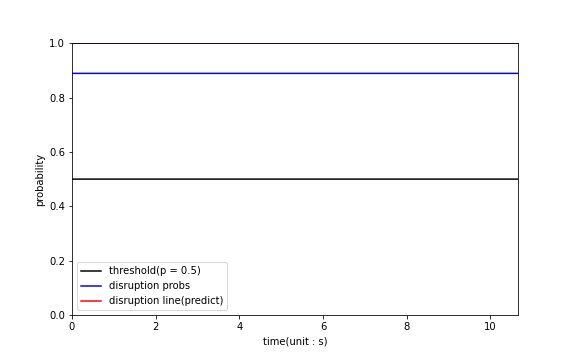
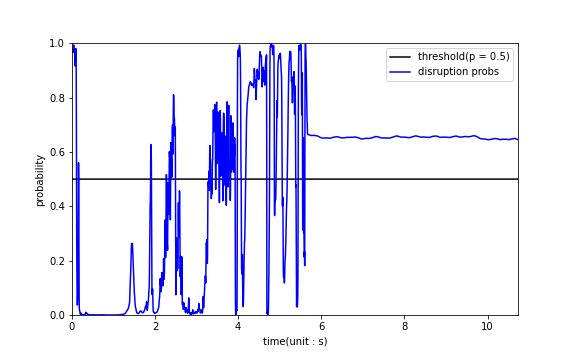
edit utility.py and test.ipynb : plot the probs curve

diff --git a/src/utils/utility.py b/src/utils/utility.py
@@ -129,7 +129,7 @@ def time_split(buffer:np.ndarray, clip_len : int):
     c = buffer.shape[3]
 
     batch_size = frame_count - clip_len + 1
-    dataset = np.zeros((batch_size, clip_len, h, w, c), dtype = np.float32)
+    dataset = np.empty((batch_size, clip_len, h, w, c), dtype = np.float32)
 
     for idx in range(0, batch_size):
         t_start = idx
@@ -161,11 +161,6 @@ def video2tensor(
 
     while (count < frame_count and retaining):
         retaining, frame = capture.read()
-        
-        if count == 0:
-            print(frame[:,:,0])
-            print(frame[:,:,1])
-            print(frame[:,:,2])
 
         if frame is None:
             frame = np.zeros((resize_width, resize_height, channels))
@@ -175,7 +170,8 @@ def video2tensor(
 
         buffer[count] = frame
         count += 1
-        capture.release()
+
+    capture.release()
 
     buffer = crop(buffer, resize_height, resize_width, crop_size)
     buffer = normalize(buffer)
@@ -202,7 +198,7 @@ def generate_prob_curve(dataset : torch.Tensor, model : torch.nn.Module, batch_s
                 frames = dataset[idx_start : idx_end, :, :, :, :]
                 frames = frames.to(device)
                 output = model(frames)
-                probs = torch.nn.functional.softmax(output, dim = 1)[:,1]
+                probs = torch.nn.functional.softmax(output, dim = 1)[:,0]
                 prob_list.extend(
                     probs.cpu().detach().numpy().tolist()
                 )
@@ -228,7 +224,7 @@ def generate_prob_curve(dataset : torch.Tensor, model : torch.nn.Module, batch_s
         plt.figure(figsize = (8,5))
         plt.plot(time_x, threshold_line, 'k', label = "threshold(p = 0.5)")
         plt.plot(time_x, prob_list, 'b-', label = "disruption probs")
-        plt.plot(time_x, is_disruption, "r", label = "disruption line(predict)")
+        # plt.plot(time_x, is_disruption, "r", label = "disruption line(predict)")
         plt.ylabel("probability")
         plt.xlabel("time(unit : s)")
         plt.ylim([0,1])
